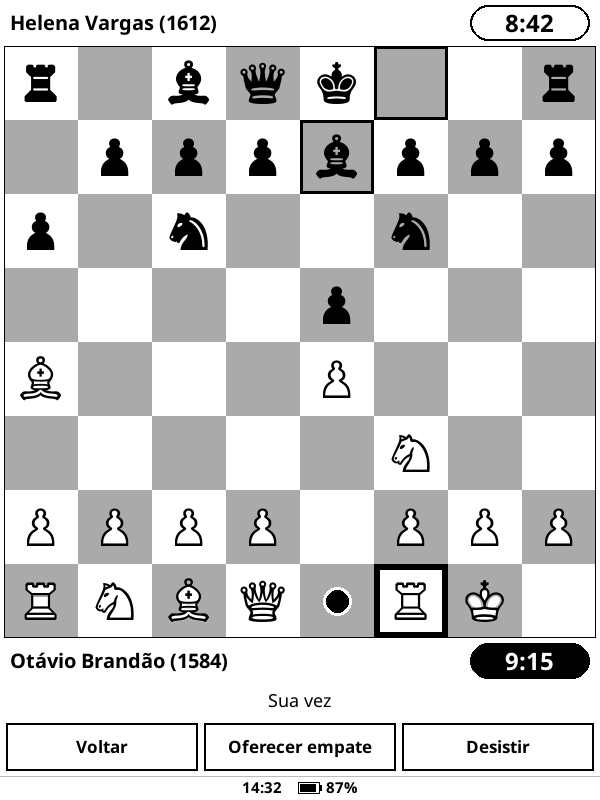
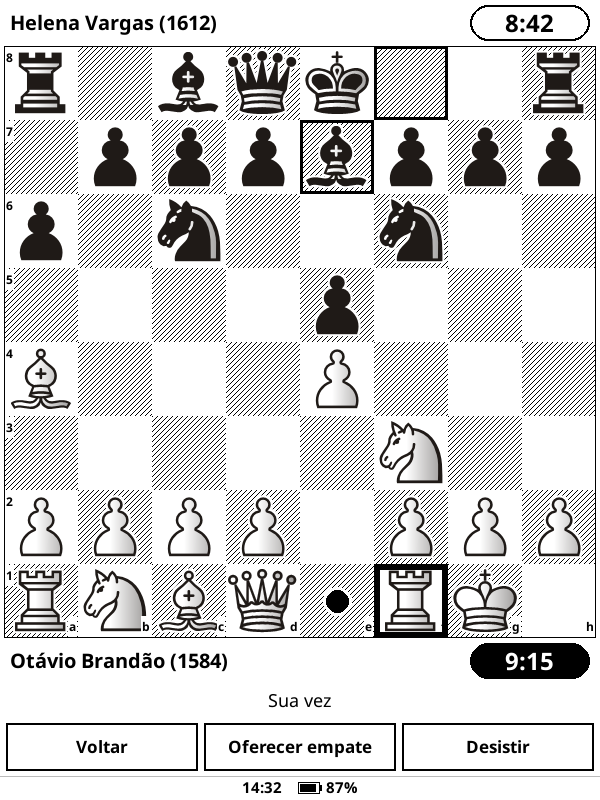
feat: update README and design documentation with new gameplay features, including board styles, move lists, hints, and two-player mode; add corresponding screenshots

diff --git a/README_pt.md b/README_pt.md
@@ -23,9 +23,15 @@
 <table>
   <tr>
     <td width="25%" align="center"><img src="docs/screenshots/pt/start.png" alt="Primeira tela, com jogar online e jogar offline"><br><sub><b>Primeira tela</b></sub></td>
-    <td width="25%" align="center"><img src="docs/screenshots/pt/games.png" alt="Lista de partidas, com as que aguardam você no topo"><br><sub><b>Suas partidas</b></sub></td>
-    <td width="25%" align="center"><img src="docs/screenshots/pt/game.png" alt="Uma partida em andamento, com relógios e uma peça selecionada"><br><sub><b>Jogando</b></sub></td>
+    <td width="25%" align="center"><img src="docs/screenshots/pt/games.png" alt="Suas partidas, com os desafios recebidos e enviados acima delas"><br><sub><b>Suas partidas</b></sub></td>
+    <td width="25%" align="center"><img src="docs/screenshots/pt/game.png" alt="Uma partida em andamento no tabuleiro Jornal, com peças Merida, coordenadas e relógios"><br><sub><b>Jogando</b></sub></td>
     <td width="25%" align="center"><img src="docs/screenshots/pt/puzzle.png" alt="Uma tática aguardando o melhor lance"><br><sub><b>Táticas</b></sub></td>
+  </tr>
+  <tr>
+    <td width="25%" align="center"><img src="docs/screenshots/pt/styles.png" alt="Escolha do estilo do tabuleiro, com uma amostra de cada um"><br><sub><b>Estilos</b></sub></td>
+    <td width="25%" align="center"><img src="docs/screenshots/pt/moves.png" alt="Os lances de uma partida, dois por linha, com o mostrado em destaque"><br><sub><b>Lista de lances</b></sub></td>
+    <td width="25%" align="center"><img src="docs/screenshots/pt/hint.png" alt="Uma partida contra o motor offline, com um lance sugerido marcado"><br><sub><b>Dica offline</b></sub></td>
+    <td width="25%" align="center"><img src="docs/screenshots/pt/two_players.png" alt="Uma partida entre duas pessoas no mesmo aparelho"><br><sub><b>Duas pessoas</b></sub></td>
   </tr>
 </table>
 

diff --git a/README.md b/README.md
@@ -31,9 +31,15 @@
 <table>
   <tr>
     <td width="25%" align="center"><img src="docs/screenshots/start.png" alt="First page, with play online and play offline"><br><sub><b>First page</b></sub></td>
-    <td width="25%" align="center"><img src="docs/screenshots/games.png" alt="List of games, with those waiting for you on top"><br><sub><b>Your games</b></sub></td>
-    <td width="25%" align="center"><img src="docs/screenshots/game.png" alt="A game in progress, with clocks and a selected piece"><br><sub><b>Playing</b></sub></td>
+    <td width="25%" align="center"><img src="docs/screenshots/games.png" alt="Your games, with the challenges received and sent above them"><br><sub><b>Your games</b></sub></td>
+    <td width="25%" align="center"><img src="docs/screenshots/game.png" alt="A game in progress on the newspaper board, with Merida pieces, coordinates and clocks"><br><sub><b>Playing</b></sub></td>
     <td width="25%" align="center"><img src="docs/screenshots/puzzle.png" alt="A puzzle waiting for the best move"><br><sub><b>Puzzles</b></sub></td>
+  </tr>
+  <tr>
+    <td width="25%" align="center"><img src="docs/screenshots/styles.png" alt="Choosing a board style, with a sample of each one"><br><sub><b>Board styles</b></sub></td>
+    <td width="25%" align="center"><img src="docs/screenshots/moves.png" alt="The moves of a game, two to a row, with the one shown marked"><br><sub><b>List of moves</b></sub></td>
+    <td width="25%" align="center"><img src="docs/screenshots/hint.png" alt="A game against the offline engine, with a suggested move marked"><br><sub><b>Hint, offline</b></sub></td>
+    <td width="25%" align="center"><img src="docs/screenshots/two_players.png" alt="A game between two people on the same device"><br><sub><b>Two players</b></sub></td>
   </tr>
 </table>
 

diff --git a/docs/design.md b/docs/design.md
@@ -137,7 +137,7 @@ ink_knight.koplugin/
   - `OUTPUT_DIR=<folder> tools/koreader/run_headless.sh tools/koreader/check_offline_game.lua` plays offline games on the real screens: choosing a color, undo, also while the engine thinks and after a mate, and a hint played with a tap, plus the list of moves offline and in a long review, where it opens on the right sheet and a tap goes to the move.
   - `OUTPUT_DIR=<folder> tools/koreader/run_headless.sh tools/koreader/check_challenges.lua` goes through the challenges sent, with invented answers and no network: the buttons beside the received ones in the three languages, canceling, a challenge already gone, and one declined or accepted.
   - `OUTPUT_DIR=<folder> tools/koreader/run_headless.sh tools/koreader/check_puzzle_review.lua` goes through reviewing missed puzzles with invented answers and no network: the list, fetching what is missing, solving one, a puzzle Lichess no longer lists, and the pile kept for when there is no connection.
-  - `OUTPUT_DIR=docs/screenshots tools/koreader/run_headless.sh tools/koreader/render_readme_screens.lua` draws the README images with invented players.
+  - `OUTPUT_DIR=docs/screenshots tools/koreader/run_headless.sh tools/koreader/render_readme_screens.lua` draws the README images with invented players: the first page, your games with challenges, a game on the newspaper board, a puzzle, the board styles, the list of moves, a hint offline and two players, in English and Portuguese.
 - `KOREADER_DIR=<desktop KOReader> python3 -I tools/make_brand_art.py` draws the icon, the banner and the social preview from the README images, with the knight of FreeSerif and no Lichess artwork.
 - `tools/package.sh` builds the zip and the checksum, only with what the plugin uses.
 
